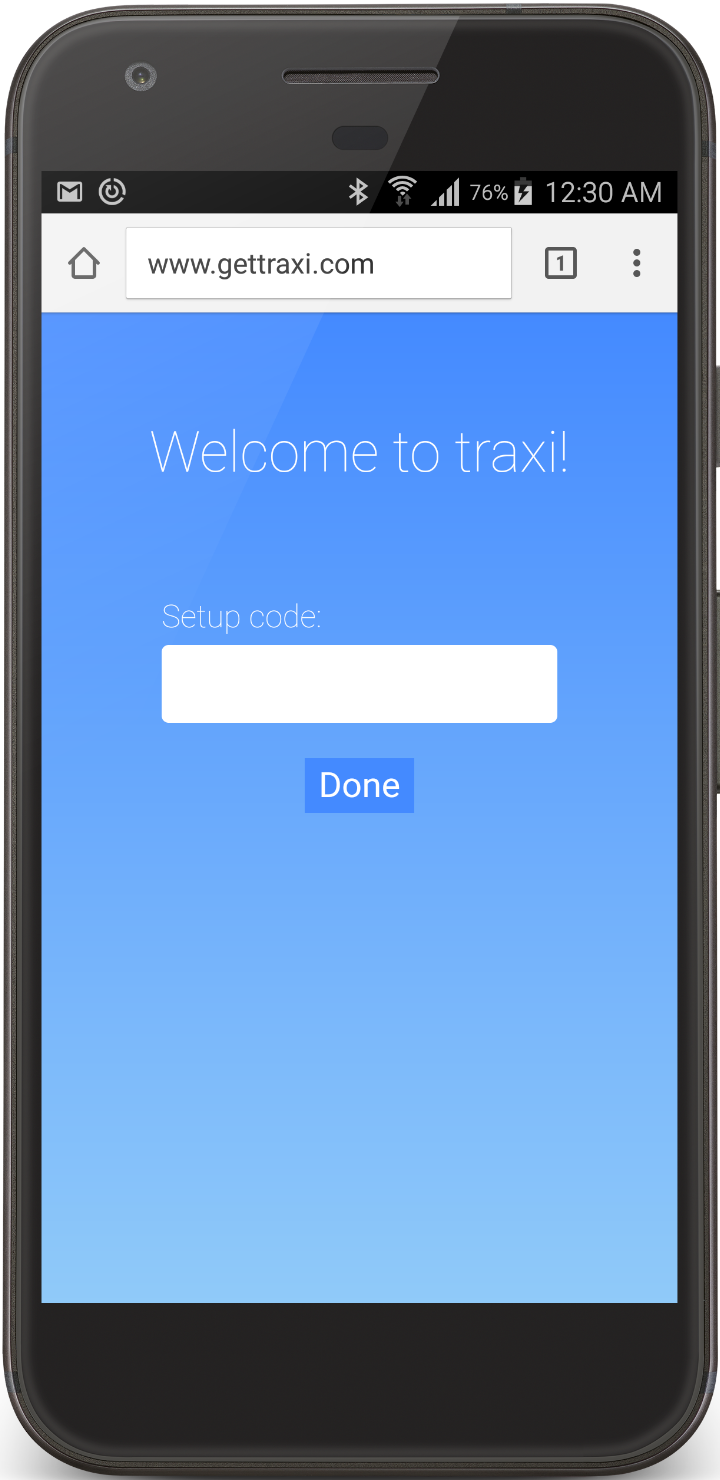
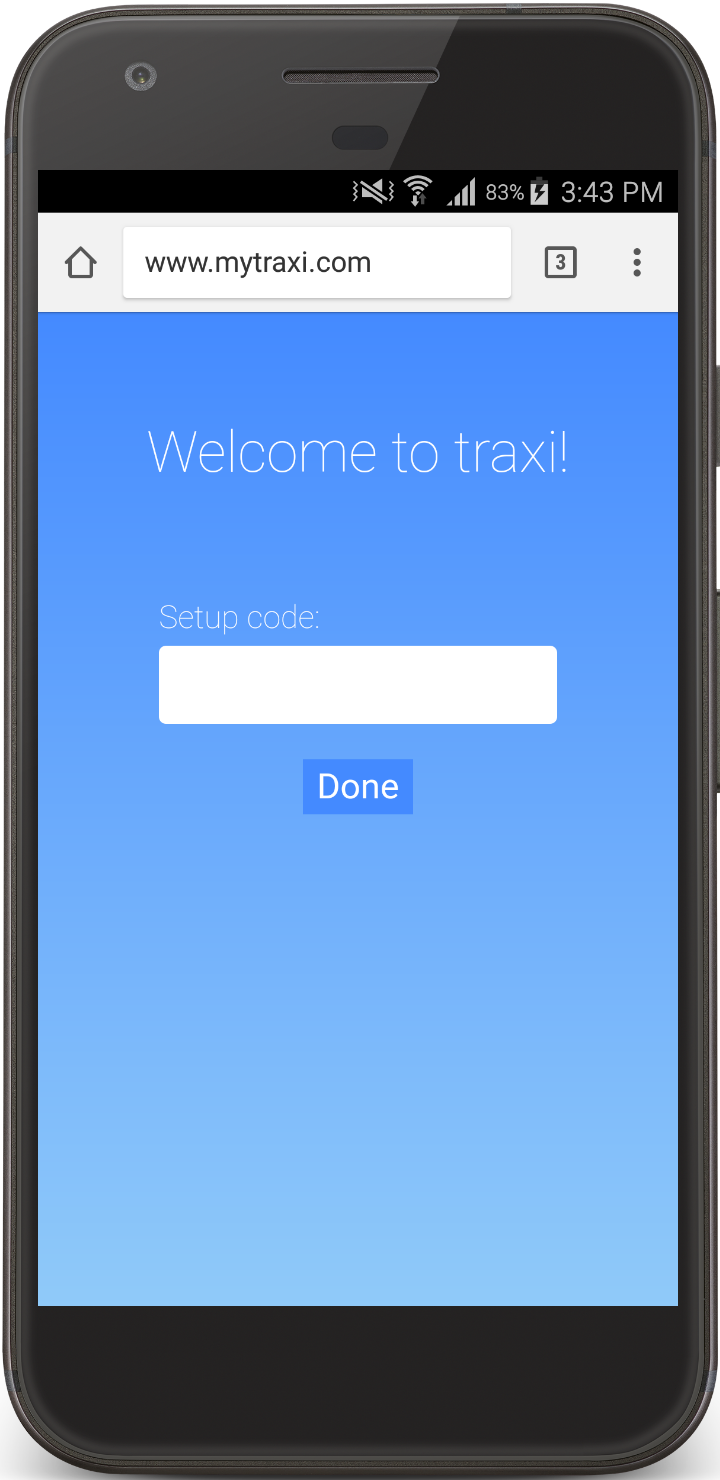
Small improvements to Device Setup
- Reduce number of steps again
- Update screenshot of "mytraxi.com"

diff --git a/App/Containers/DeviceSetup.js b/App/Containers/DeviceSetup.js
@@ -20,13 +20,11 @@ const unknownInstructions = (step, kidName, setupID) => {
     `Waiting for ${kidName} to enter ${setupID}...`,
     '',
     '',
-    '',
   ];
   return instructions[step];
 };
 const iosInstructions = (step, kidName) => {
   const instructions = [
-    '',
     'Tap the "Install"\n button in the top right',
     'Tap the "Install"\n button again',
     'Tap "Done"',
@@ -36,22 +34,19 @@ const iosInstructions = (step, kidName) => {
 };
 const androidInstructions = (step, kidName, setupID) => {
   const instructions = [
-    '',
-    `Install traxi Child App \n on ${kidName}'s Android device`,
-    `Open traxi Child App \n on ${kidName}'s Android device`,
+    'Tap the "Next step" button and install traxi Child App',
+    `Open traxi Child App on ${kidName}'s Android device`,
     `Insert the code ${setupID} if needed, then tap "OK"`,
     `Waiting for ${kidName}'s Android device..`,
   ];
   return instructions[step];
 };
 const IOS_IMAGES = [
-  {},
   require('../Images/iphone-step-1.png'),
   require('../Images/iphone-step-2.png'),
   require('../Images/iphone-step-3.png'),
 ];
 const ANDROID_IMAGES = [
-  {},
   require('../Images/android-step-1.png'),
   require('../Images/android-step-2.png'),
   require('../Images/android-step-3.png'),
@@ -81,7 +76,7 @@ const imagePath = (step, deviceType) => {
   }
 };
 const isWaitingForDevice = (step, deviceType) =>
-  (step === 1 && deviceType === 'unknown') || step === 4;
+  (step === 0 && deviceType === 'unknown') || step === 2;
 const styles = StyleSheet.create({
   container: {
     flex: 1,

diff --git a/App/Utils/index.js b/App/Utils/index.js
@@ -7,7 +7,6 @@ import * as Firebase from 'firebase';
 import { BackAndroid, Linking, AsyncStorage, Platform } from 'react-native';
 import { Crashlytics } from 'react-native-fabric';
 import Analytics from 'react-native-analytics';
-import InAppBilling from 'react-native-billing';
 import { Actions } from 'react-native-router-flux';
 
 export const firstName = name => name && name.split(' ')[0];
@@ -136,11 +135,6 @@ export const experimentViewed = variantName => {
     price: variantName,
   });
 };
-
-export const handleBilling = price =>
-  InAppBilling.open()
-    .then(() => InAppBilling.subscribe(price))
-    .then(() => InAppBilling.close());
 
 export const sendPhoneNumberToSlack = phoneNumber =>
   fetch(

diff --git a/App/Components/ProgressTrack.js b/App/Components/ProgressTrack.js
@@ -4,7 +4,7 @@ import { WHITE, LIGHT_GREY, TRANSPARENT } from '../Constants/Colours';
 
 const TRACK_COLOUR = LIGHT_GREY;
 const TRACK_THICKNESS = 4;
-const STAGES = [0, 1, 2, 3, 4];
+const STAGES = [0, 1, 2, 3];
 
 const containerStyle = {
   height: 32,
